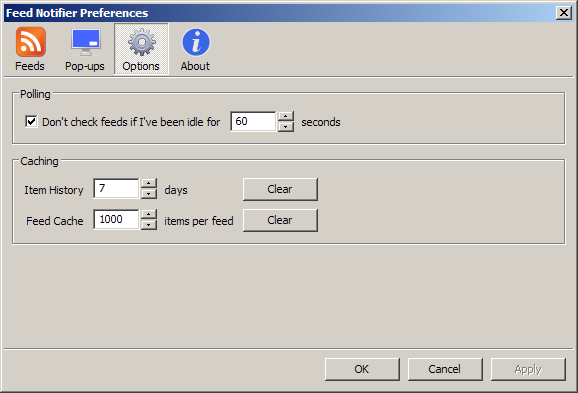
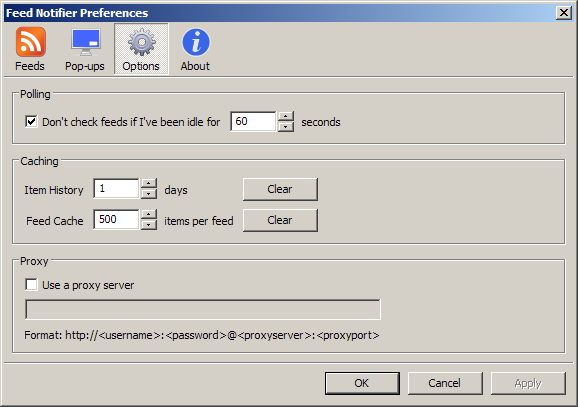
smaller feed cache, new screenshot

Changed region(s): [[0.0, 0.0, 0.9965, 0.9771], [0.9343, 0.0305, 0.9965, 0.0611]]

diff --git a/defaults.py b/defaults.py
@@ -13,7 +13,7 @@ DEFAULT_POLLING_INTERVAL = 60 * 15
 USER_IDLE_TIMEOUT = 60
 DISABLE_WHEN_IDLE = True
 ITEM_CACHE_AGE = 60 * 60 * 24 * 1
-FEED_CACHE_SIZE = 1000
+FEED_CACHE_SIZE = 500
 
 # Proxy Settings
 USE_PROXY = False
